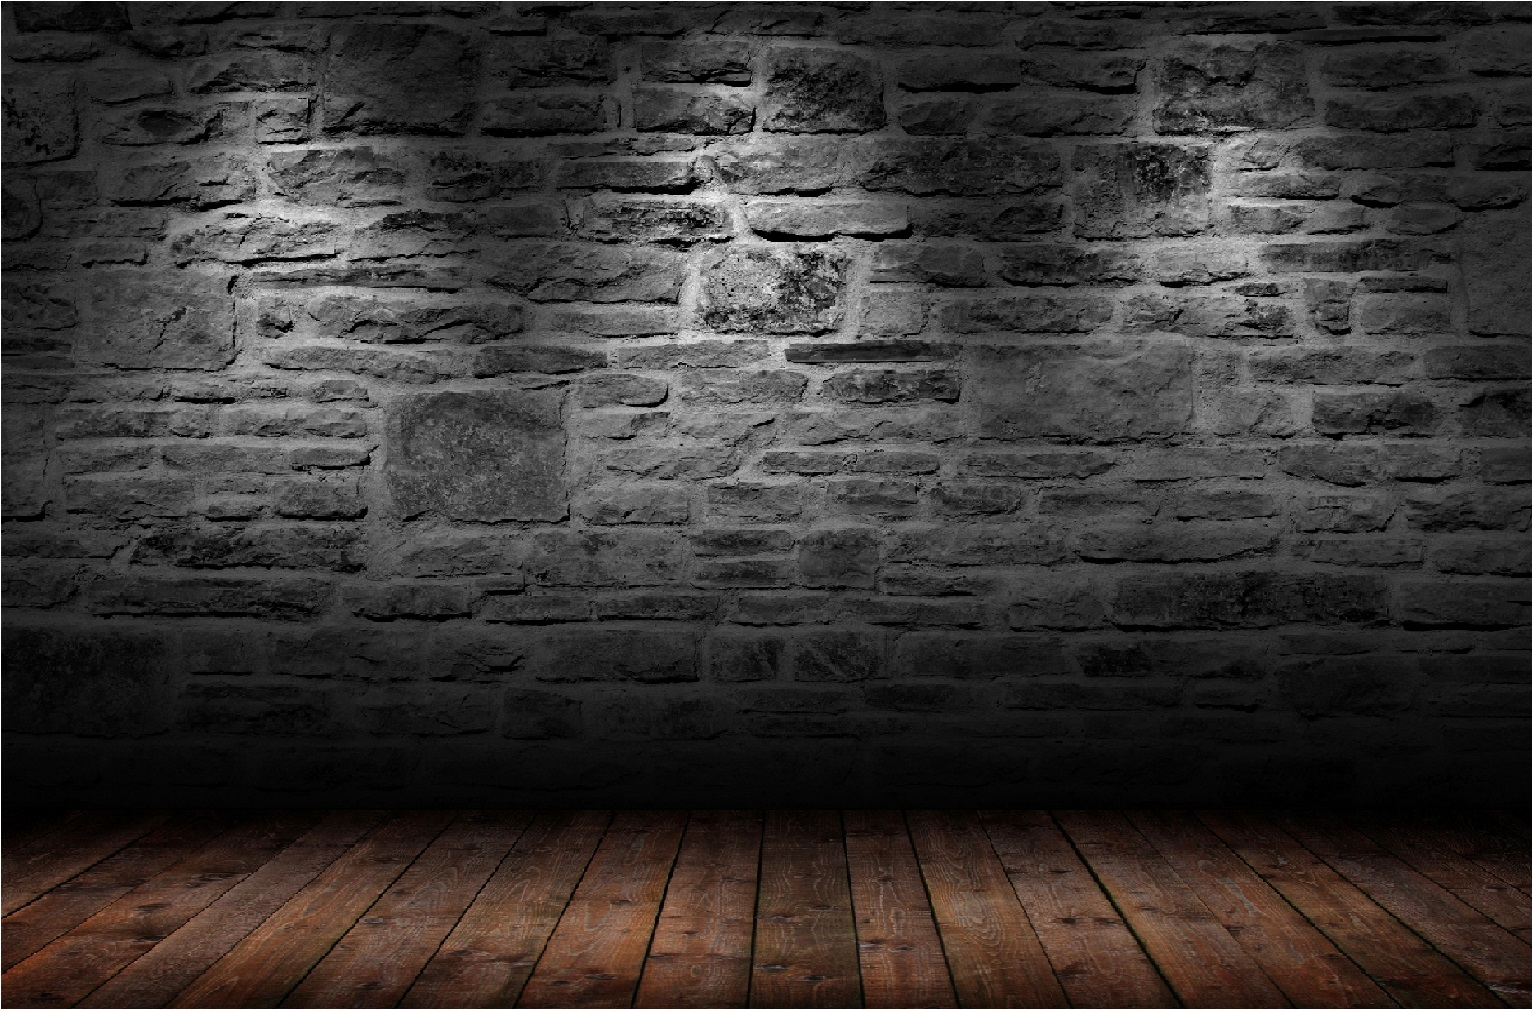
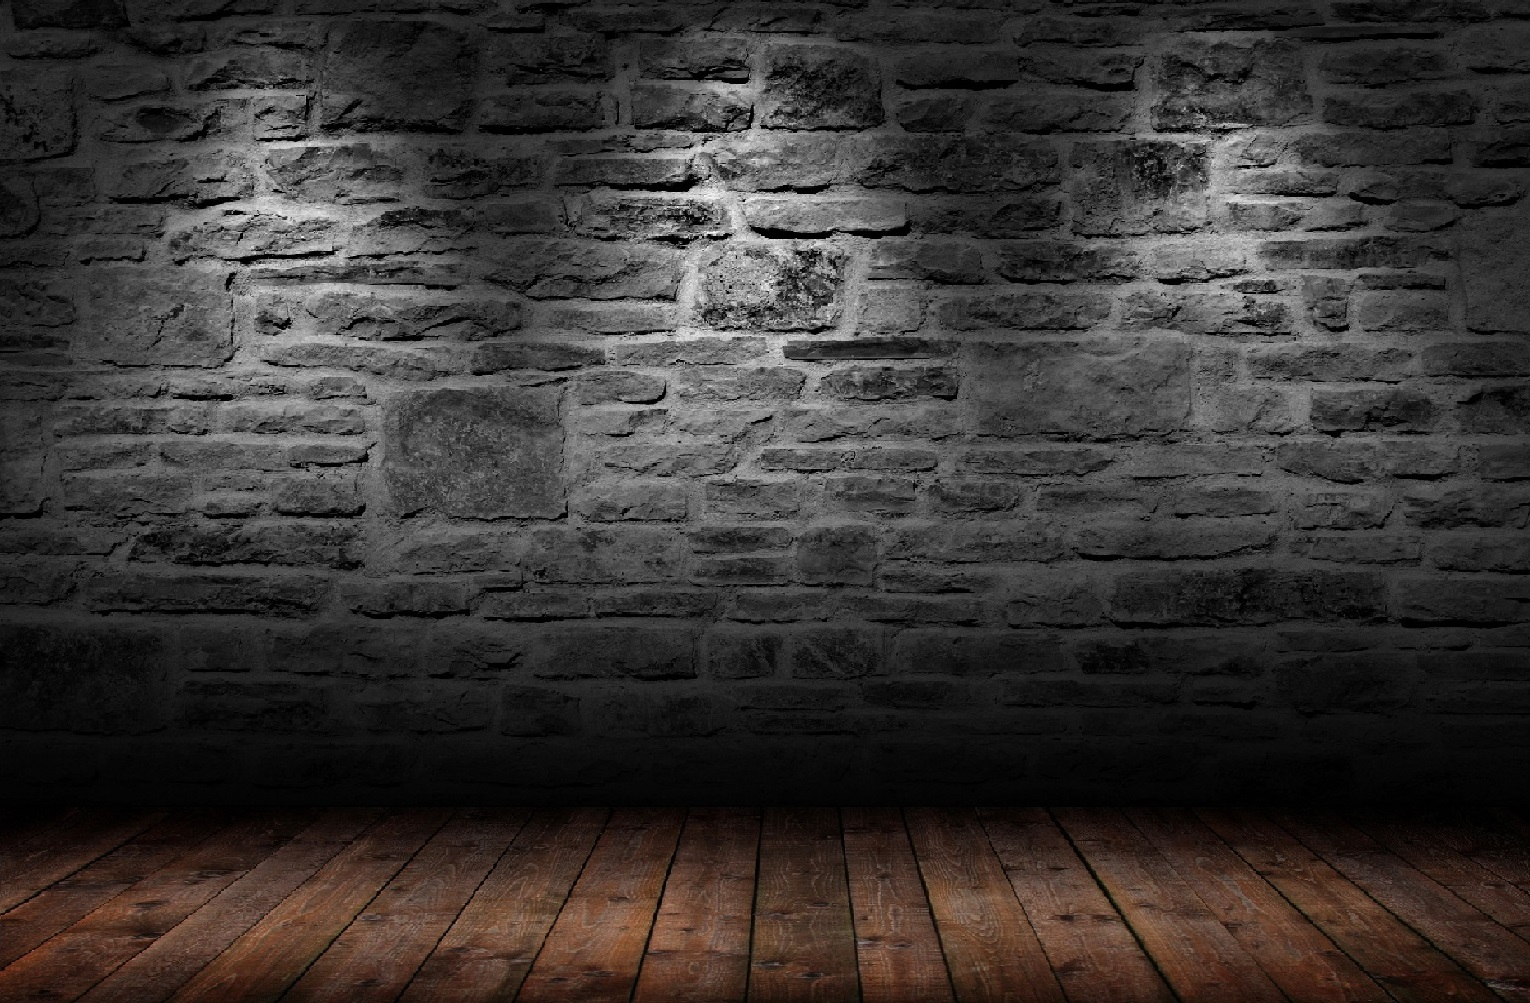
Update

diff --git a/files/estilo.css b/files/estilo.css
@@ -2,25 +2,35 @@ body {
   background-color: #222;
   background-image: url('muro.jpg');
   background-size: cover;
+  background-attachment: fixed; 
+  background-position: center 30%;
 }
 .index {
   background-color: #222;
 }
-.volver {
-  height: auto;
-  align-self: center;
-  background-color: #000;
-  color: #0f0;
-  padding: 0px; 
-  box-shadow: 0 0 0 0 #000;
 
-}
-.volver:hover {
-  color: #00f;
-
-}
 img{
   border-radius: 20px;
+}
+h2 {
+  color: #0f0;
+  text-align: center;
+  font-size: 28px;
+
+}
+button {
+  background-color: #4CAF50;
+  color: blue; 
+  padding: 10px 40px;
+  margin: 20px 0px 25px 50px;
+  border: none;  
+  border-radius: 20px; 
+  cursor: pointer;
+  box-shadow: 7px 7px 10px 5px #66f;
+}
+button:hover {
+  box-shadow: 7px 7px 10px 5px #6f6;
+  transform: scale(1.08);
 }
 a {
   display: flex;
@@ -32,12 +42,12 @@ a {
   background-color: #222;
   margin: 20px;
   padding: 5px;
-  box-shadow: 2px 2px 10px 2px #0f0;
+  box-shadow: 7px 7px 10px 2px #0f0;
   transition: box-shadow 0.12s ease;
   transition: transform 0.12s ease-in-out;
 }
 .cont_img:hover {
-  box-shadow: 2px 2px 10px 5px #66f;
+  box-shadow: 7px 7px 10px 3px #66f;
   background-color: #333;
   transform: scale(1.08);
 }
@@ -68,10 +78,8 @@ embed {
   transform: scale(1.08);
 }
 footer {
-  bottom: 0;
-  left: 0;
-  right: 0;
   color: #0f0;
+  margin: 80px 0px 0px 10px;
   text-align: center;
 
 }

diff --git a/files/certificados.html b/files/certificados.html
@@ -2,13 +2,19 @@
 <html>
   <head>
     <meta charset="utf-8">
-	<meta name="viewport" content="width=device-width, initial-scale=1">
-	<title>Certificaciones_Ariel_Robotti</title>
-	<link rel="icon" type="image/png" href="certif.png">
-	<link rel="stylesheet" type="text/css" href="estilo.css">
+		<meta name="viewport" content="width=device-width, initial-scale=1">
+		<title>Certificaciones_Ariel_Robotti</title>
+		<link rel="icon" type="image/png" href="certif.png">
+		<link rel="stylesheet" type="text/css" href="estilo.css">
+		<script>
+			function volver() {
+	  	window.history.back();
+			}
+		</script>
   </head>
   <body>
-  	<h2><a href="https://arielrobotti.github.io/" class="volver">VOLVER</a></h2>
+  	<h2>MURO DE CERTIFICACIONES OBTENIDAS</h2>
+  	<button onclick="volver()">VOLVER</button>
     <div class="photo-container">
     	<a href="https://certificates.mooc.fi/validate/oyc7ybcs72k" class="cont_img">
 	      <img src="certificados/certificate-elements-of-ai.png" alt="elements-of-ai">

diff --git a/files/mozartduino.html b/files/mozartduino.html
@@ -59,6 +59,7 @@
     <iframe width="560" height="315" src="https://www.youtube.com/embed/5N9xpdhkuvM?start=3" title="YouTube video player" frameborder="0" allow="accelerometer; autoplay; clipboard-write; encrypted-media; gyroscope; picture-in-picture; web-share" allowfullscreen></iframe>
 
     <h3><a href="https://arielrobotti.github.io/">Perfil profesional del autor</a></h3>
+
     <footer>
       <p> Ariel Robotti 2023</p>
     </footer>
